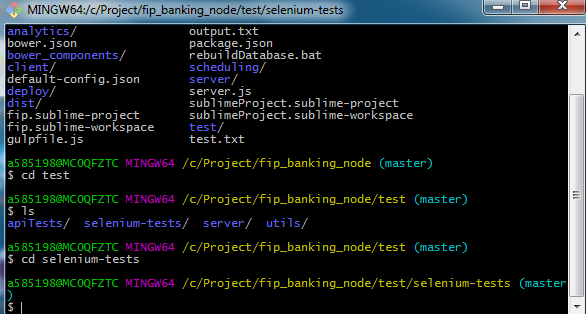
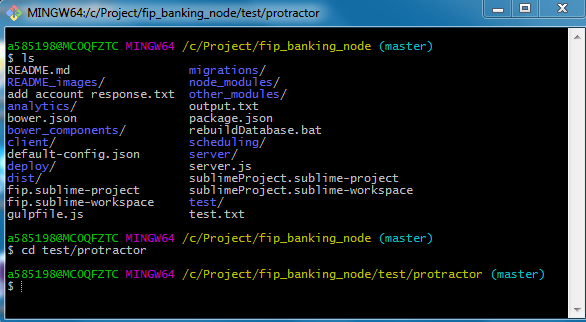
UI testing doc modified

Changed region(s): [[0.0, 0.0, 1.0, 1.0]]

diff --git a/Testing/UI Testing.md b/Testing/UI Testing.md
@@ -12,7 +12,7 @@
 
 In the Agile age of Software delivery, Test Automation is becoming more of a necessity than a luxary. The complexity of Software is making Manual Testing much too time consuming and costly. In response to this, Digital Tulip has taken an Automation approach to UI testing. 
 
-UI tests use Selenium as it's foundation. However framworks such as Mocha and Phantom are also intregrated to enhance Testing quality. Phantom allows the UI tests to be added to the Team City build. 
+UI tests use Selenium as it's foundation. However framworks such as Protractor, Mocha and Phantom are also intregrated to enhance Testing quality. Phantom allows the UI tests to be added to the Team City build. Protactor is used to Test AngularJS functionality and improve the Test consistency. 
 
 # Prerequisites
 
@@ -21,7 +21,7 @@ Before continuing, the following prerequisits must be met -
 1. fip_banking_node project cloned with repository permissions.
 2. Team City account with access to Digital Tulip tasks.
 3. Mongo DB and git.
-3. Sound knowlege of Selenium, Mocha, Phantom and UI Test Automation in general.
+3. Sound knowlege of Selenium, Protractor, Mocha, Phantom and UI Test Automation in general.
 
 # What makes a good UI test
 
@@ -47,29 +47,21 @@ Does the screen size change for mobile viewing ?
 
 # Creating and running tests.
 
-UI Tests are located in test > selenium-tests path of fip_banking_node project.
+UI Tests are now located in test > protractor path of fip_banking_node project.
 
-![alt text](/Images/seleniumtests.png) 
+![alt text](/Images/protractortests.png) 
 
 Look at existing tests to see examples of tests and the corrosponding syntax.
 
 ![alt text](/Images/syntax.png) 
 
-Before running a test locally, check to see which enivornment it is running on. The "env" variable determines this. The below example is set to be executed on the local host. Navgivate to server > config > config path to see alternatives. 
-
-![alt text](/Images/env.png) 
-
-![alt text](/Images/config.png) 
-
-To run a test, open up a shell (git bash is recommended) and navigate to selenium-tests folder. 
+To run a test, open up a shell (git bash is recommended) and navigate to protractor folder. Ensure that gulp and mongod are running in other shells. 
 
 ![alt text](/Images/gitbash.png)
 
-Execute mocha test name.js. Test will be executed and result will be displayed in shell. Passed tests will be displayed as green and failed ones will display as red.  
+Execute the command *NODE_ENV=local protractor conf.js*. This will execute the enite test suite. Test results will be displayed in shell.
 
 ![alt text](/Images/runtest.png)
-
-Remember that tests must be run using Phantom when added to the Team City build. 
 
 # Screencast
 
